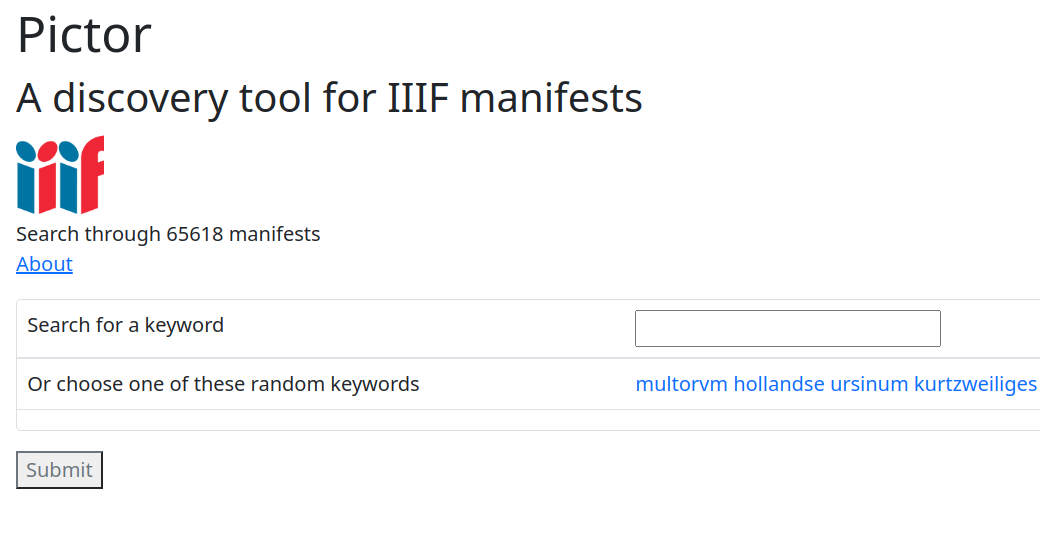
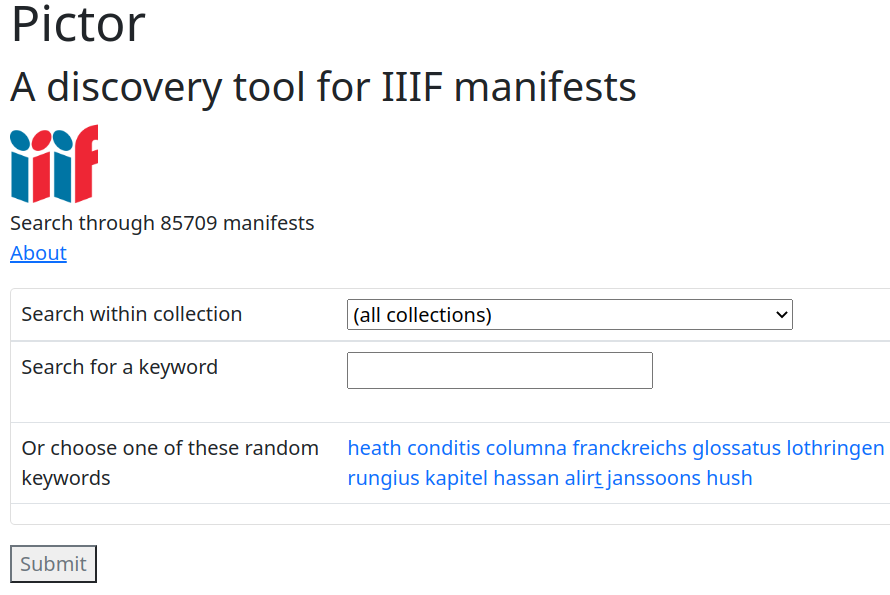
update documentation

Changed region(s): [[0.0, 0.4732, 1.0, 1.0], [0.0, 0.0, 0.7281, 0.4732], [0.8494, 0.5028, 0.8798, 0.5323]]

diff --git a/README.md b/README.md
@@ -108,7 +108,7 @@ Requesting and indexing the IIIF manifests was done with a Go script (since Go i
 
 The resulting triple store was then turned into a number of JSON files, including one for the IIIF manifest identifiers and their matching sequential number. I used base-85 numbers for the latter, as this gave me a very efficient way to encode large numbers.
 
-In total, this process only takes a couple of hours for the current sample of ca. 30,000 manifests.
+In total, this process only takes a couple of hours for the current sample of ca. 80,000 manifests.
 
 Workflow, after harvesting and sampling into *_sample.txt files
 
@@ -136,7 +136,7 @@ I also note that this is a completely serverless application, which hosts the ne
 
 ## Wild plan and call to action
 
-Finally, some daydreaming. I made the discovery tool for a sample of the manifests I have collected, but what I would really like to do is push the limits and see how many manifests I can process and still host the index on a static webpage. Currently, for ca. 30,000 manifests, the JSON files are only slightly above 10 MB in total, so this could definitely be scaled up.
+Finally, some daydreaming. I made the discovery tool for a sample of the manifests I have collected, but what I would really like to do is push the limits and see how many manifests I can process and still host the index on a static webpage. Currently, for ca. 80,000 manifests, the JSON files are only slightly above 25 MB in total, so this could definitely be scaled up.
 
 So if you or your instution want to participate in this experiment, or simply deposit your IIIF manifests in the central repository, please get in touch with me.
 
